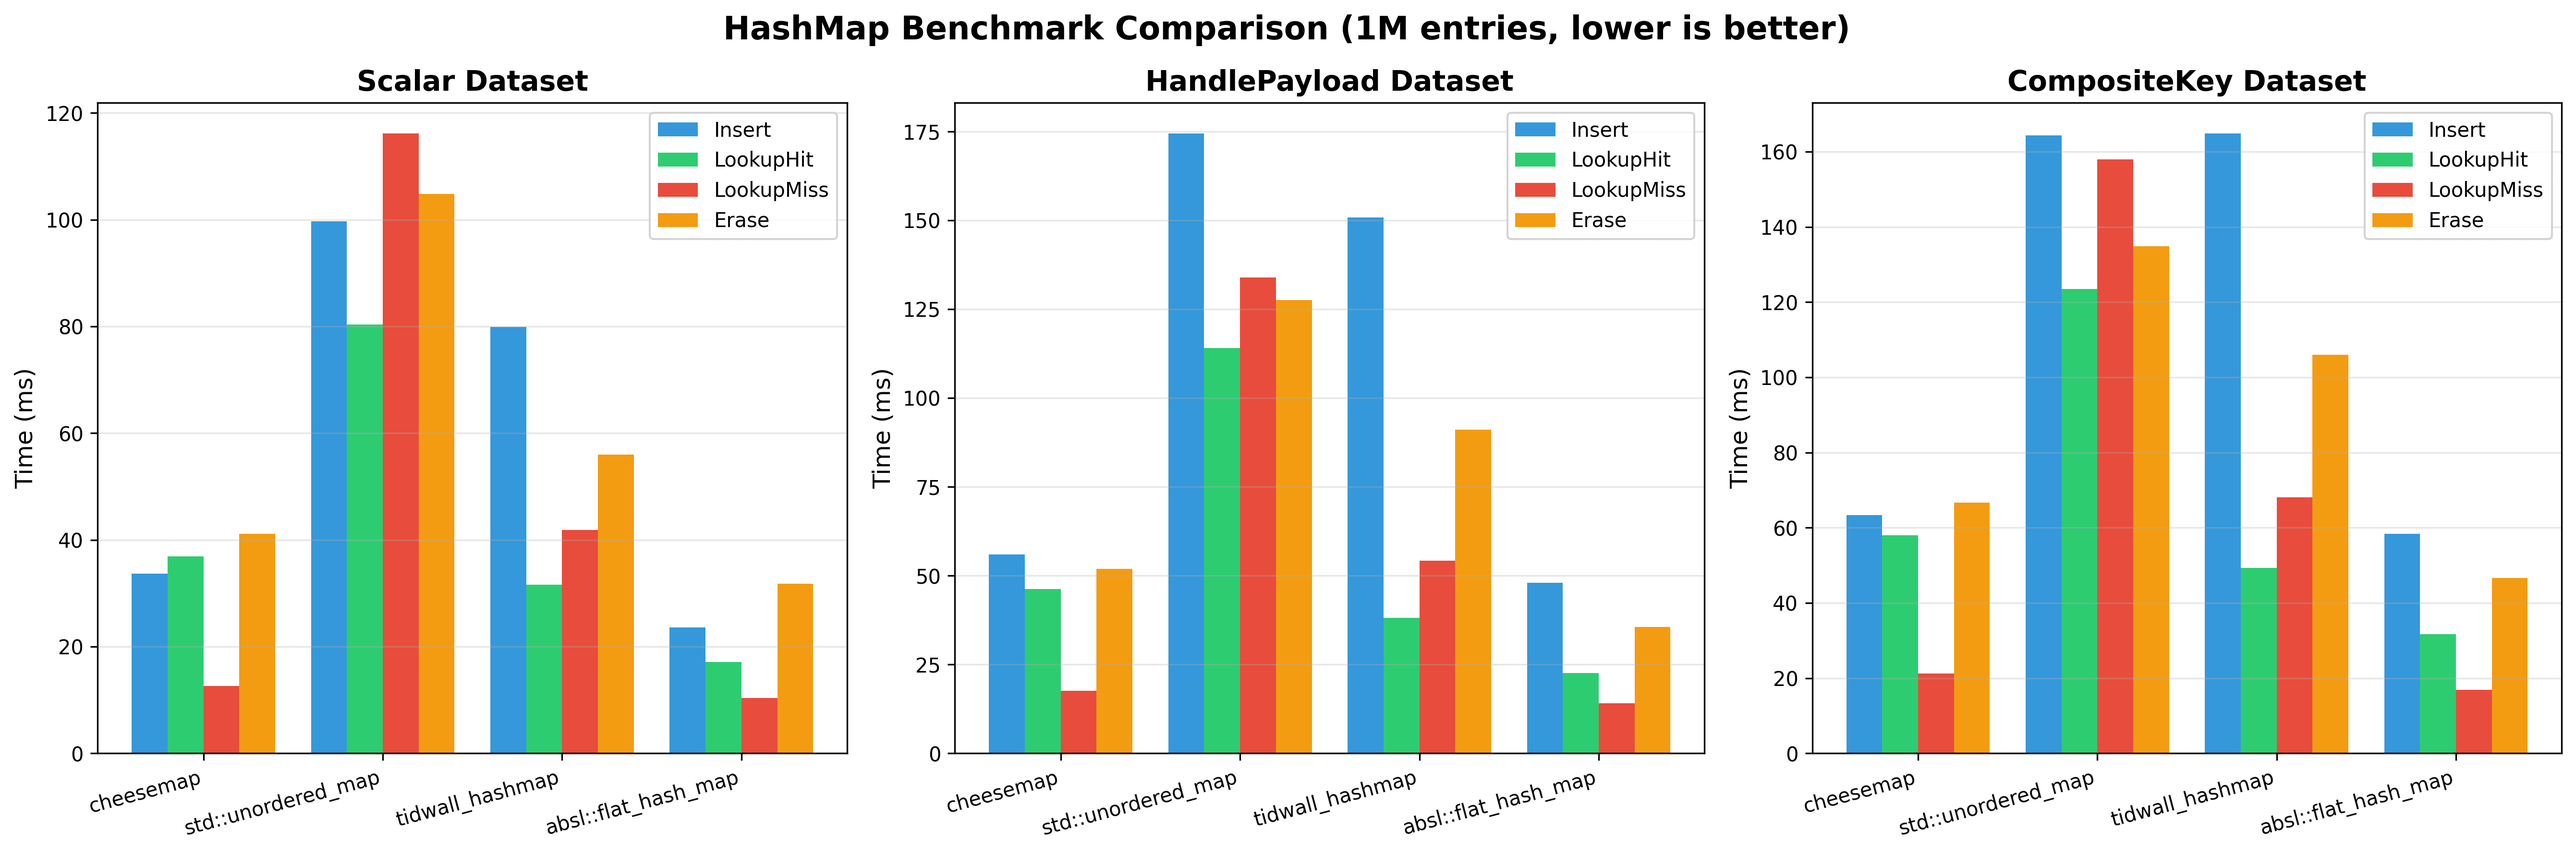
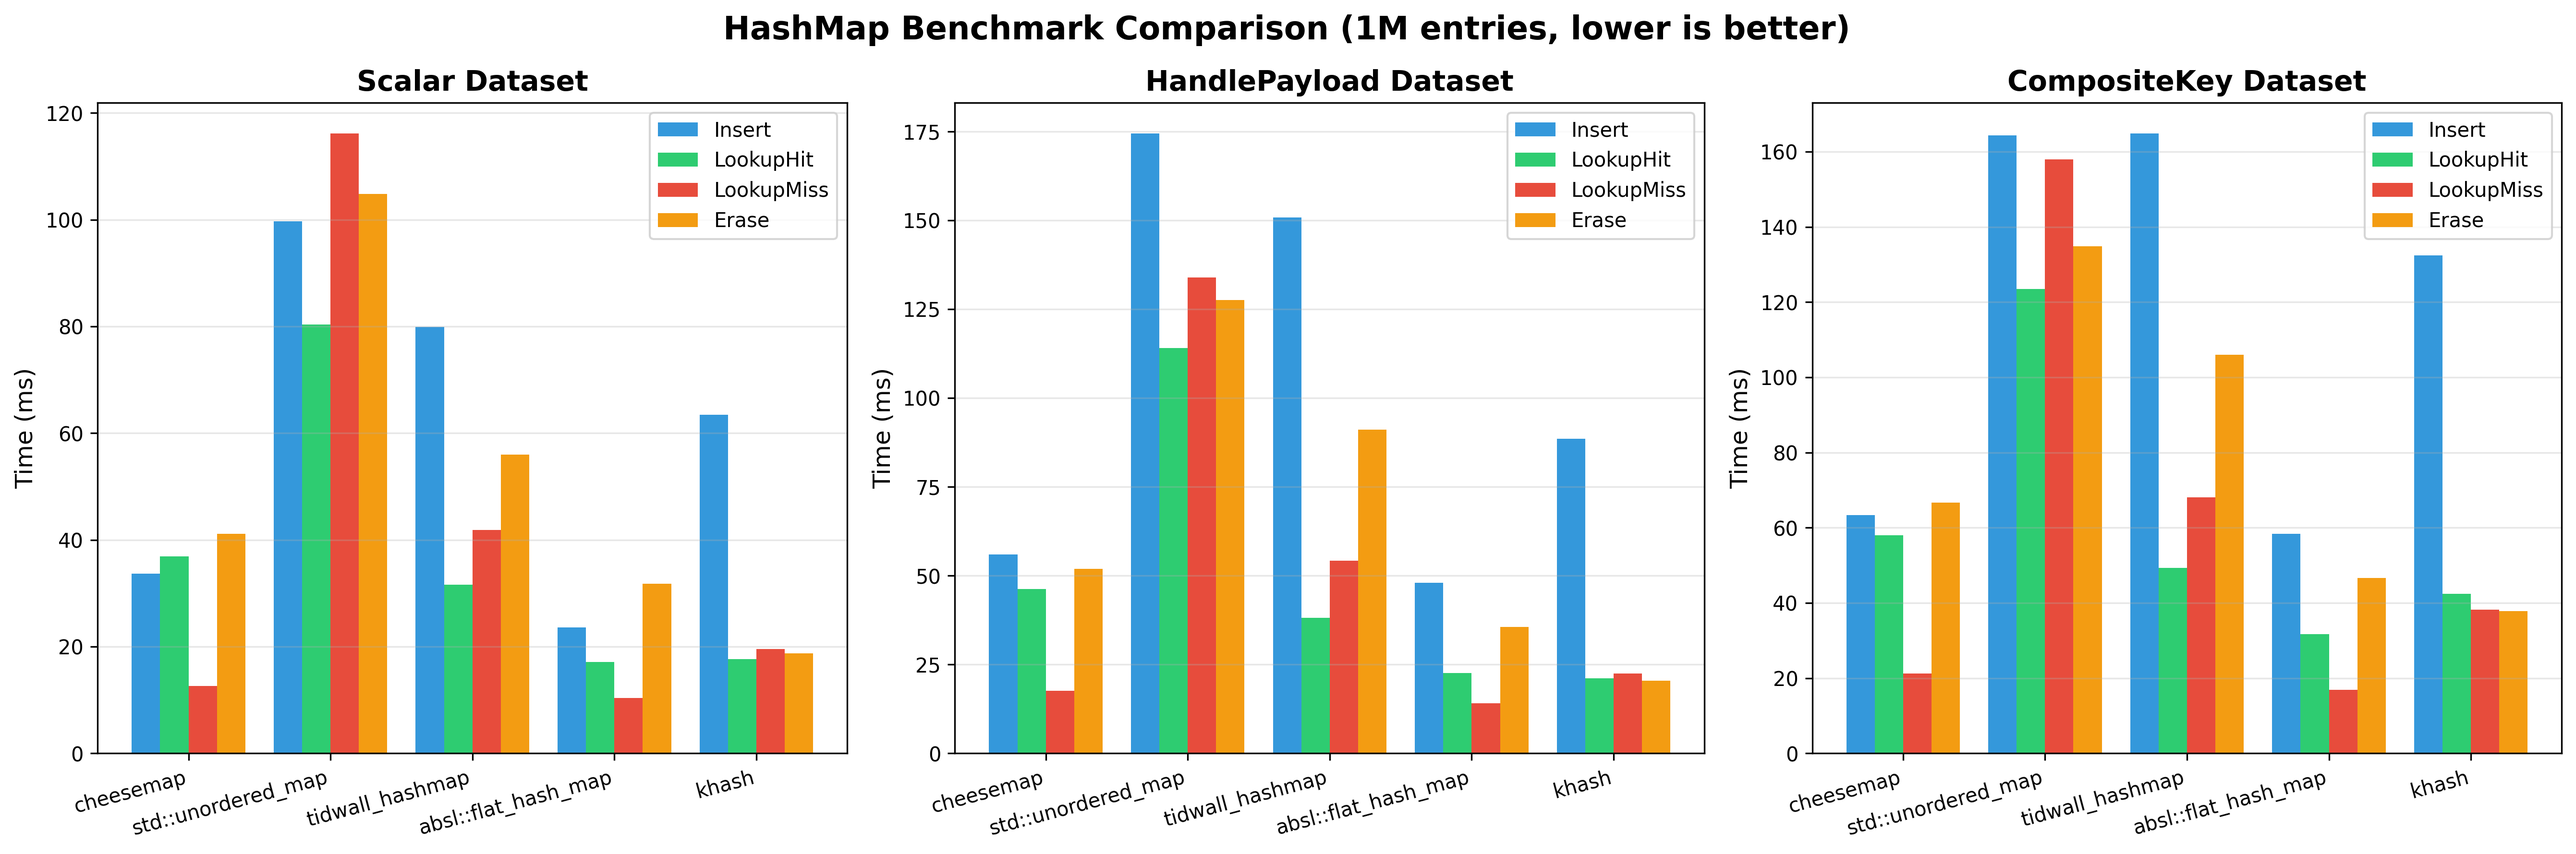
adding klib bench

Changed region(s): [[0.6849, 0.1546, 0.9963, 0.9893], [0.0311, 0.1546, 0.3425, 0.9893], [0.3425, 0.1546, 0.6538, 0.9893]]

diff --git a/benches/klib_bench.cpp b/benches/klib_bench.cpp
@@ -1,0 +1,238 @@
+#include <benchmark/benchmark.h>
+
+#include "bench_common.hpp"
+
+extern "C" {
+#include "klib/khash.h"
+}
+
+namespace {
+
+using namespace cmbench;
+
+// Define khash instances for each key-value type
+static inline std::uint64_t kh_hash_u64(std::uint64_t key) {
+  return hash_xxh_avalanche(key);
+}
+
+static inline int kh_equal_u64(std::uint64_t a, std::uint64_t b) {
+  return a == b;
+}
+
+KHASH_INIT(u64_scalar, std::uint64_t, ScalarValue, 1, kh_hash_u64, kh_equal_u64)
+
+static inline std::uint64_t kh_hash_entity(EntityId key) {
+  return hash_xxh_avalanche(key);
+}
+
+static inline int kh_equal_entity(EntityId a, EntityId b) {
+  return byte_equal(a, b);
+}
+
+KHASH_INIT(entity_payload, EntityId, ComponentPayload, 1, kh_hash_entity,
+           kh_equal_entity)
+
+static inline std::uint64_t kh_hash_component(ComponentKey key) {
+  return hash_xxh_avalanche(key);
+}
+
+static inline int kh_equal_component(ComponentKey a, ComponentKey b) {
+  return byte_equal(a, b);
+}
+
+KHASH_INIT(component_meta, ComponentKey, ComponentMeta, 1, kh_hash_component,
+           kh_equal_component)
+
+// Adapter for u64 -> ScalarValue
+struct KlibScalarAdapter {
+  khash_t(u64_scalar) * map = nullptr;
+
+  KlibScalarAdapter() { map = kh_init(u64_scalar); }
+
+  ~KlibScalarAdapter() {
+    if (map != nullptr) kh_destroy(u64_scalar, map);
+  }
+
+  KlibScalarAdapter(const KlibScalarAdapter&) = delete;
+  KlibScalarAdapter& operator=(const KlibScalarAdapter&) = delete;
+
+  void reserve(std::size_t count) { benchmark::DoNotOptimize(count); }
+
+  void insert(const std::uint64_t& key, const ScalarValue& value) {
+    int ret;
+    khiter_t k = kh_put(u64_scalar, map, key, &ret);
+    if (ret < 0) panic_impl(__FILE__, __LINE__, "insert failed");
+    kh_value(map, k) = value;
+  }
+
+  ScalarValue* lookup_hit(const std::uint64_t& key) {
+    khiter_t k = kh_get(u64_scalar, map, key);
+    if (k == kh_end(map)) panic_impl(__FILE__, __LINE__, "lookup hit failed");
+    return &kh_value(map, k);
+  }
+
+  void lookup_miss(const std::uint64_t& key) {
+    khiter_t k = kh_get(u64_scalar, map, key);
+    if (k != kh_end(map)) panic_impl(__FILE__, __LINE__, "lookup miss failed");
+    benchmark::DoNotOptimize(k);
+  }
+
+  void erase(const std::uint64_t& key) {
+    khiter_t k = kh_get(u64_scalar, map, key);
+    if (k == kh_end(map)) panic_impl(__FILE__, __LINE__, "erase failed");
+    kh_del(u64_scalar, map, k);
+  }
+};
+
+// Adapter for EntityId -> ComponentPayload
+struct KlibEntityAdapter {
+  khash_t(entity_payload) * map = nullptr;
+
+  KlibEntityAdapter() { map = kh_init(entity_payload); }
+
+  ~KlibEntityAdapter() {
+    if (map != nullptr) kh_destroy(entity_payload, map);
+  }
+
+  KlibEntityAdapter(const KlibEntityAdapter&) = delete;
+  KlibEntityAdapter& operator=(const KlibEntityAdapter&) = delete;
+
+  void reserve(std::size_t count) { benchmark::DoNotOptimize(count); }
+
+  void insert(const EntityId& key, const ComponentPayload& value) {
+    int ret;
+    khiter_t k = kh_put(entity_payload, map, key, &ret);
+    if (ret < 0) panic_impl(__FILE__, __LINE__, "insert failed");
+    kh_value(map, k) = value;
+  }
+
+  ComponentPayload* lookup_hit(const EntityId& key) {
+    khiter_t k = kh_get(entity_payload, map, key);
+    if (k == kh_end(map)) panic_impl(__FILE__, __LINE__, "lookup hit failed");
+    return &kh_value(map, k);
+  }
+
+  void lookup_miss(const EntityId& key) {
+    khiter_t k = kh_get(entity_payload, map, key);
+    if (k != kh_end(map)) panic_impl(__FILE__, __LINE__, "lookup miss failed");
+    benchmark::DoNotOptimize(k);
+  }
+
+  void erase(const EntityId& key) {
+    khiter_t k = kh_get(entity_payload, map, key);
+    if (k == kh_end(map)) panic_impl(__FILE__, __LINE__, "erase failed");
+    kh_del(entity_payload, map, k);
+  }
+};
+
+// Adapter for ComponentKey -> ComponentMeta
+struct KlibComponentAdapter {
+  khash_t(component_meta) * map = nullptr;
+
+  KlibComponentAdapter() { map = kh_init(component_meta); }
+
+  ~KlibComponentAdapter() {
+    if (map != nullptr) kh_destroy(component_meta, map);
+  }
+
+  KlibComponentAdapter(const KlibComponentAdapter&) = delete;
+  KlibComponentAdapter& operator=(const KlibComponentAdapter&) = delete;
+
+  void reserve(std::size_t count) { benchmark::DoNotOptimize(count); }
+
+  void insert(const ComponentKey& key, const ComponentMeta& value) {
+    int ret;
+    khiter_t k = kh_put(component_meta, map, key, &ret);
+    if (ret < 0) panic_impl(__FILE__, __LINE__, "insert failed");
+    kh_value(map, k) = value;
+  }
+
+  ComponentMeta* lookup_hit(const ComponentKey& key) {
+    khiter_t k = kh_get(component_meta, map, key);
+    if (k == kh_end(map)) panic_impl(__FILE__, __LINE__, "lookup hit failed");
+    return &kh_value(map, k);
+  }
+
+  void lookup_miss(const ComponentKey& key) {
+    khiter_t k = kh_get(component_meta, map, key);
+    if (k != kh_end(map)) panic_impl(__FILE__, __LINE__, "lookup miss failed");
+    benchmark::DoNotOptimize(k);
+  }
+
+  void erase(const ComponentKey& key) {
+    khiter_t k = kh_get(component_meta, map, key);
+    if (k == kh_end(map)) panic_impl(__FILE__, __LINE__, "erase failed");
+    kh_del(component_meta, map, k);
+  }
+};
+
+static void BM_Insert_Scalar(benchmark::State& state) {
+  bench_insert<KlibScalarAdapter, std::uint64_t, ScalarValue>(
+      state, scalar_workload(), {"khash", "c", "Scalar", "Insert"});
+}
+static void BM_LookupHit_Scalar(benchmark::State& state) {
+  bench_lookup_hit<KlibScalarAdapter, std::uint64_t, ScalarValue>(
+      state, scalar_workload(), {"khash", "c", "Scalar", "LookupHit"});
+}
+static void BM_LookupMiss_Scalar(benchmark::State& state) {
+  bench_lookup_miss<KlibScalarAdapter, std::uint64_t, ScalarValue>(
+      state, scalar_workload(), {"khash", "c", "Scalar", "LookupMiss"});
+}
+static void BM_Erase_Scalar(benchmark::State& state) {
+  bench_erase<KlibScalarAdapter, std::uint64_t, ScalarValue>(
+      state, scalar_workload(), {"khash", "c", "Scalar", "Erase"});
+}
+
+static void BM_Insert_HandlePayload(benchmark::State& state) {
+  bench_insert<KlibEntityAdapter, EntityId, ComponentPayload>(
+      state, entity_workload(), {"khash", "c", "HandlePayload", "Insert"});
+}
+static void BM_LookupHit_HandlePayload(benchmark::State& state) {
+  bench_lookup_hit<KlibEntityAdapter, EntityId, ComponentPayload>(
+      state, entity_workload(), {"khash", "c", "HandlePayload", "LookupHit"});
+}
+static void BM_LookupMiss_HandlePayload(benchmark::State& state) {
+  bench_lookup_miss<KlibEntityAdapter, EntityId, ComponentPayload>(
+      state, entity_workload(),
+      {"khash", "c", "HandlePayload", "LookupMiss"});
+}
+static void BM_Erase_HandlePayload(benchmark::State& state) {
+  bench_erase<KlibEntityAdapter, EntityId, ComponentPayload>(
+      state, entity_workload(), {"khash", "c", "HandlePayload", "Erase"});
+}
+
+static void BM_Insert_CompositeKey(benchmark::State& state) {
+  bench_insert<KlibComponentAdapter, ComponentKey, ComponentMeta>(
+      state, component_workload(), {"khash", "c", "CompositeKey", "Insert"});
+}
+static void BM_LookupHit_CompositeKey(benchmark::State& state) {
+  bench_lookup_hit<KlibComponentAdapter, ComponentKey, ComponentMeta>(
+      state, component_workload(),
+      {"khash", "c", "CompositeKey", "LookupHit"});
+}
+static void BM_LookupMiss_CompositeKey(benchmark::State& state) {
+  bench_lookup_miss<KlibComponentAdapter, ComponentKey, ComponentMeta>(
+      state, component_workload(),
+      {"khash", "c", "CompositeKey", "LookupMiss"});
+}
+static void BM_Erase_CompositeKey(benchmark::State& state) {
+  bench_erase<KlibComponentAdapter, ComponentKey, ComponentMeta>(
+      state, component_workload(), {"khash", "c", "CompositeKey", "Erase"});
+}
+
+}  // namespace
+
+BENCHMARK(BM_Insert_Scalar);
+BENCHMARK(BM_LookupHit_Scalar);
+BENCHMARK(BM_LookupMiss_Scalar);
+BENCHMARK(BM_Erase_Scalar);
+
+BENCHMARK(BM_Insert_HandlePayload);
+BENCHMARK(BM_LookupHit_HandlePayload);
+BENCHMARK(BM_LookupMiss_HandlePayload);
+BENCHMARK(BM_Erase_HandlePayload);
+
+BENCHMARK(BM_Insert_CompositeKey);
+BENCHMARK(BM_LookupHit_CompositeKey);
+BENCHMARK(BM_LookupMiss_CompositeKey);
+BENCHMARK(BM_Erase_CompositeKey);

diff --git a/benches/results.py b/benches/results.py
@@ -104,6 +104,7 @@ def main():
         "std::unordered_map": root_dir / "unordered.json",
         "tidwall": root_dir / "tidwall.json",
         "absl::flat_hash_map": root_dir / "abseil.json",
+        "khash": root_dir / "klib.json",
     }
 
     all_results = {}

diff --git a/benches/bench_common.hpp b/benches/bench_common.hpp
@@ -20,6 +20,7 @@
 #include "tidwall/hashmap.h"
 #include "absl/container/flat_hash_map.h"
 
+
 namespace cmbench {
 
 inline constexpr std::int64_t kEntryCount = 1'000'000;
